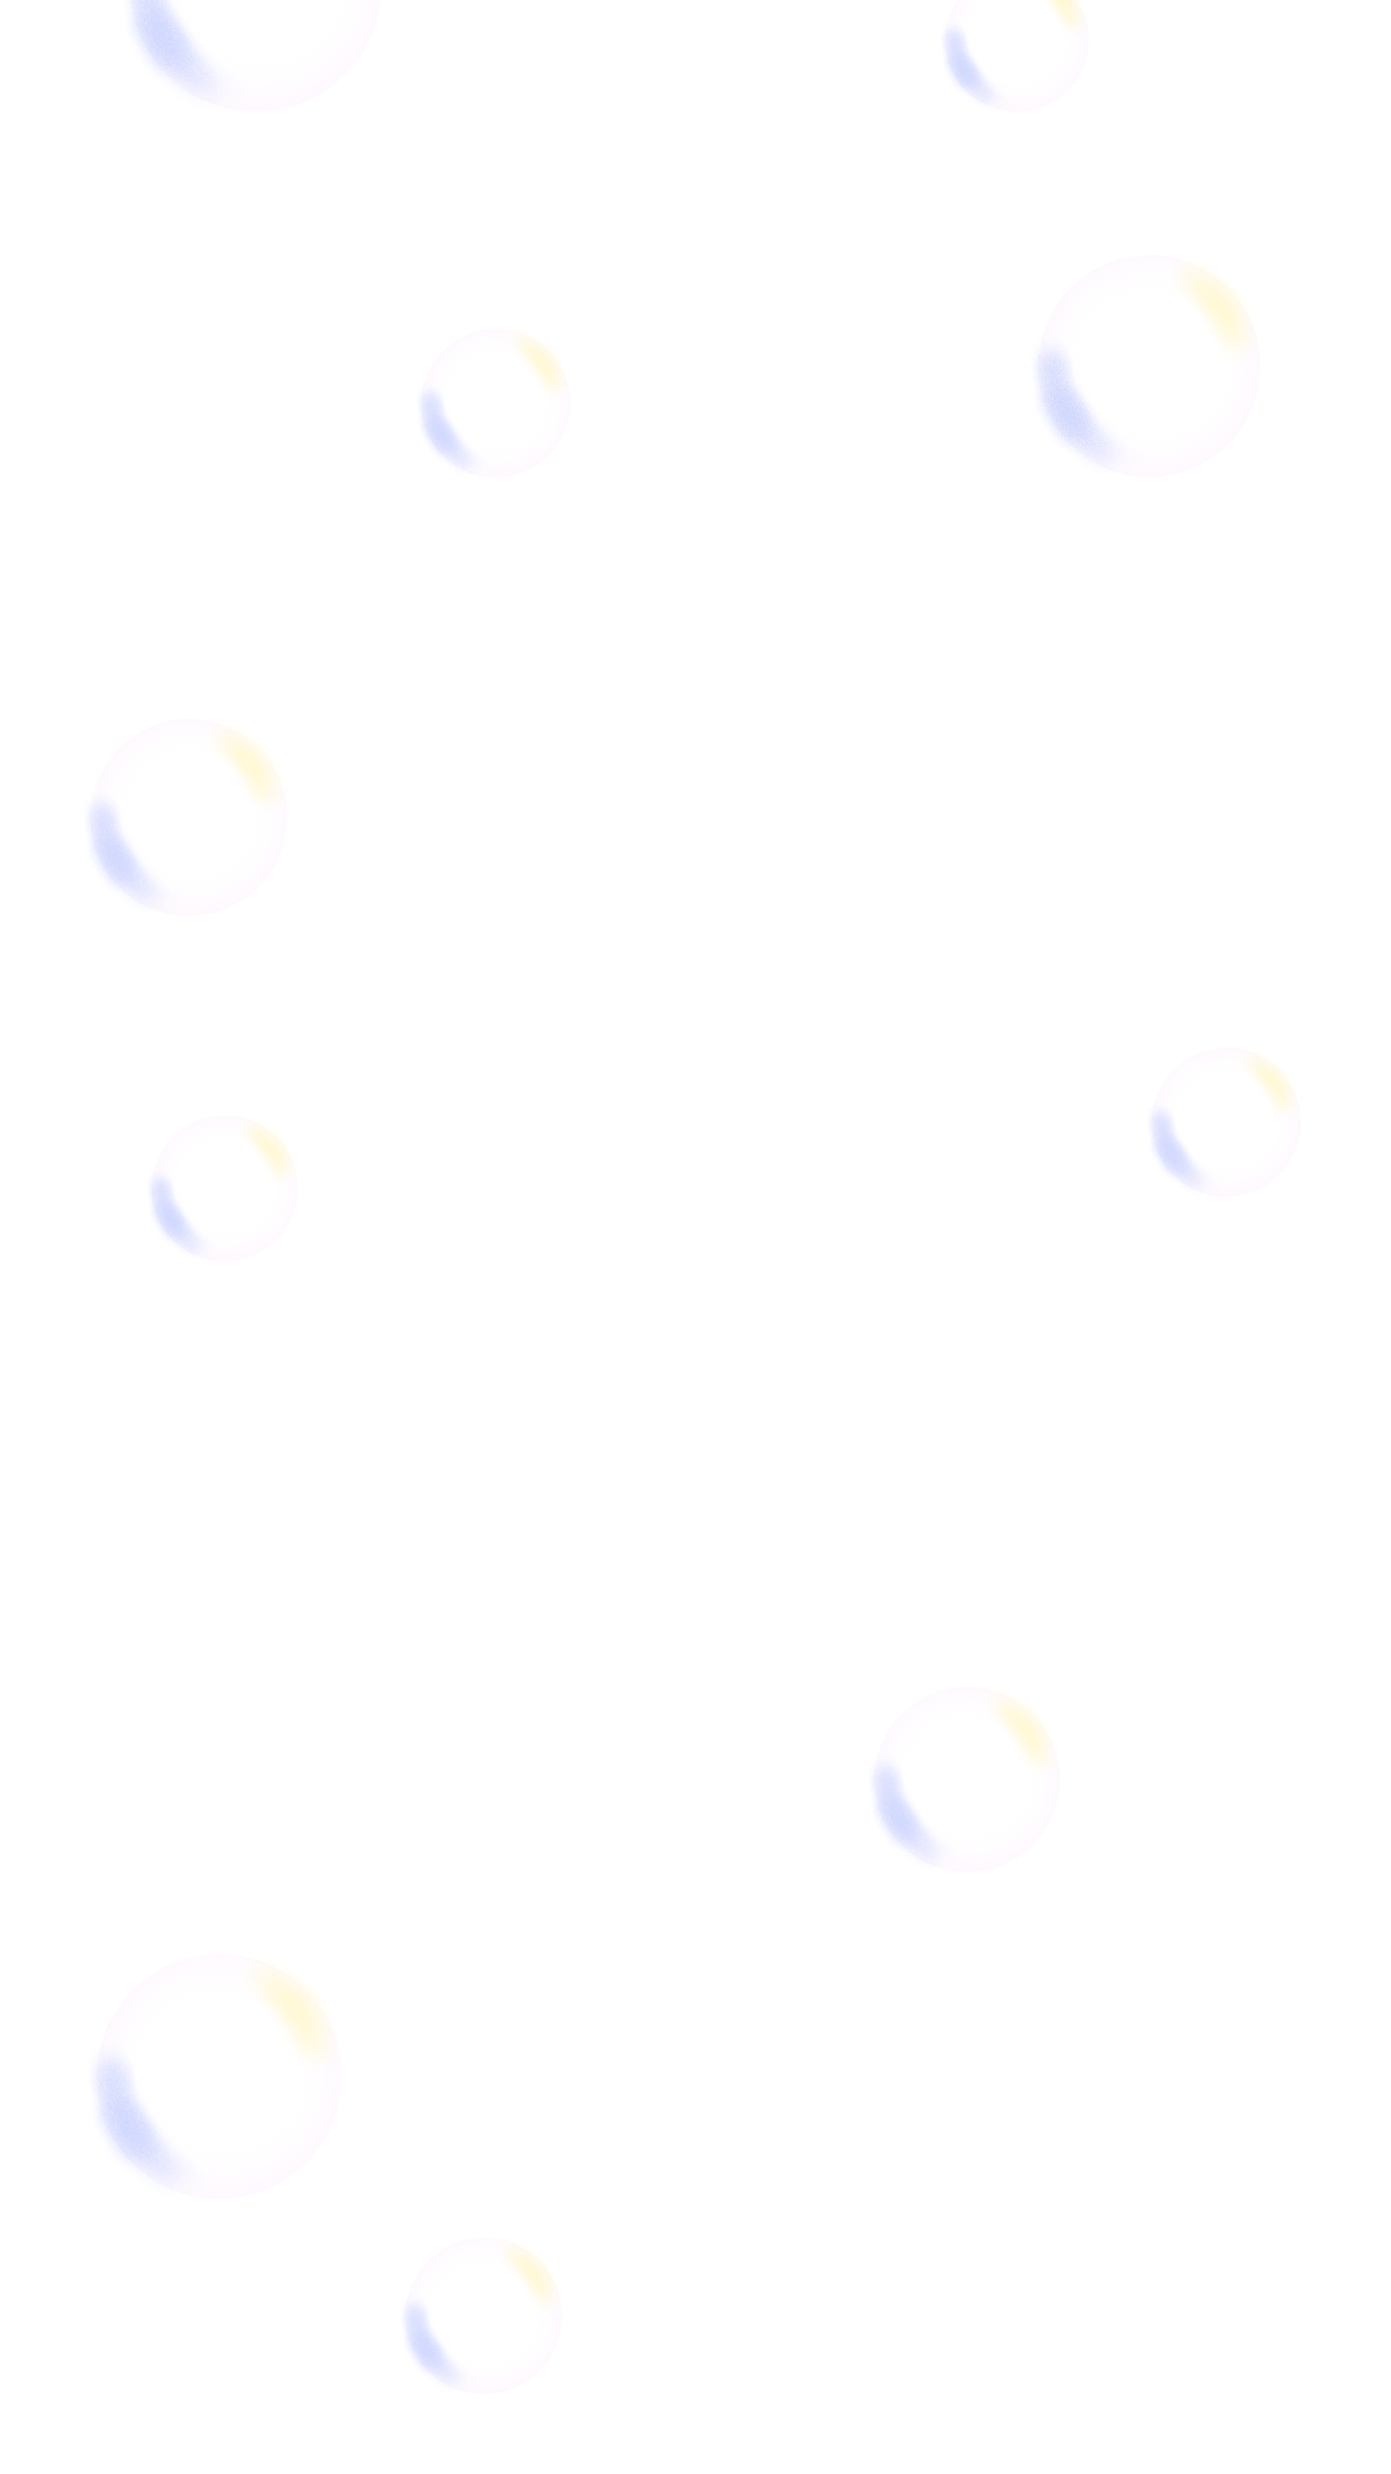
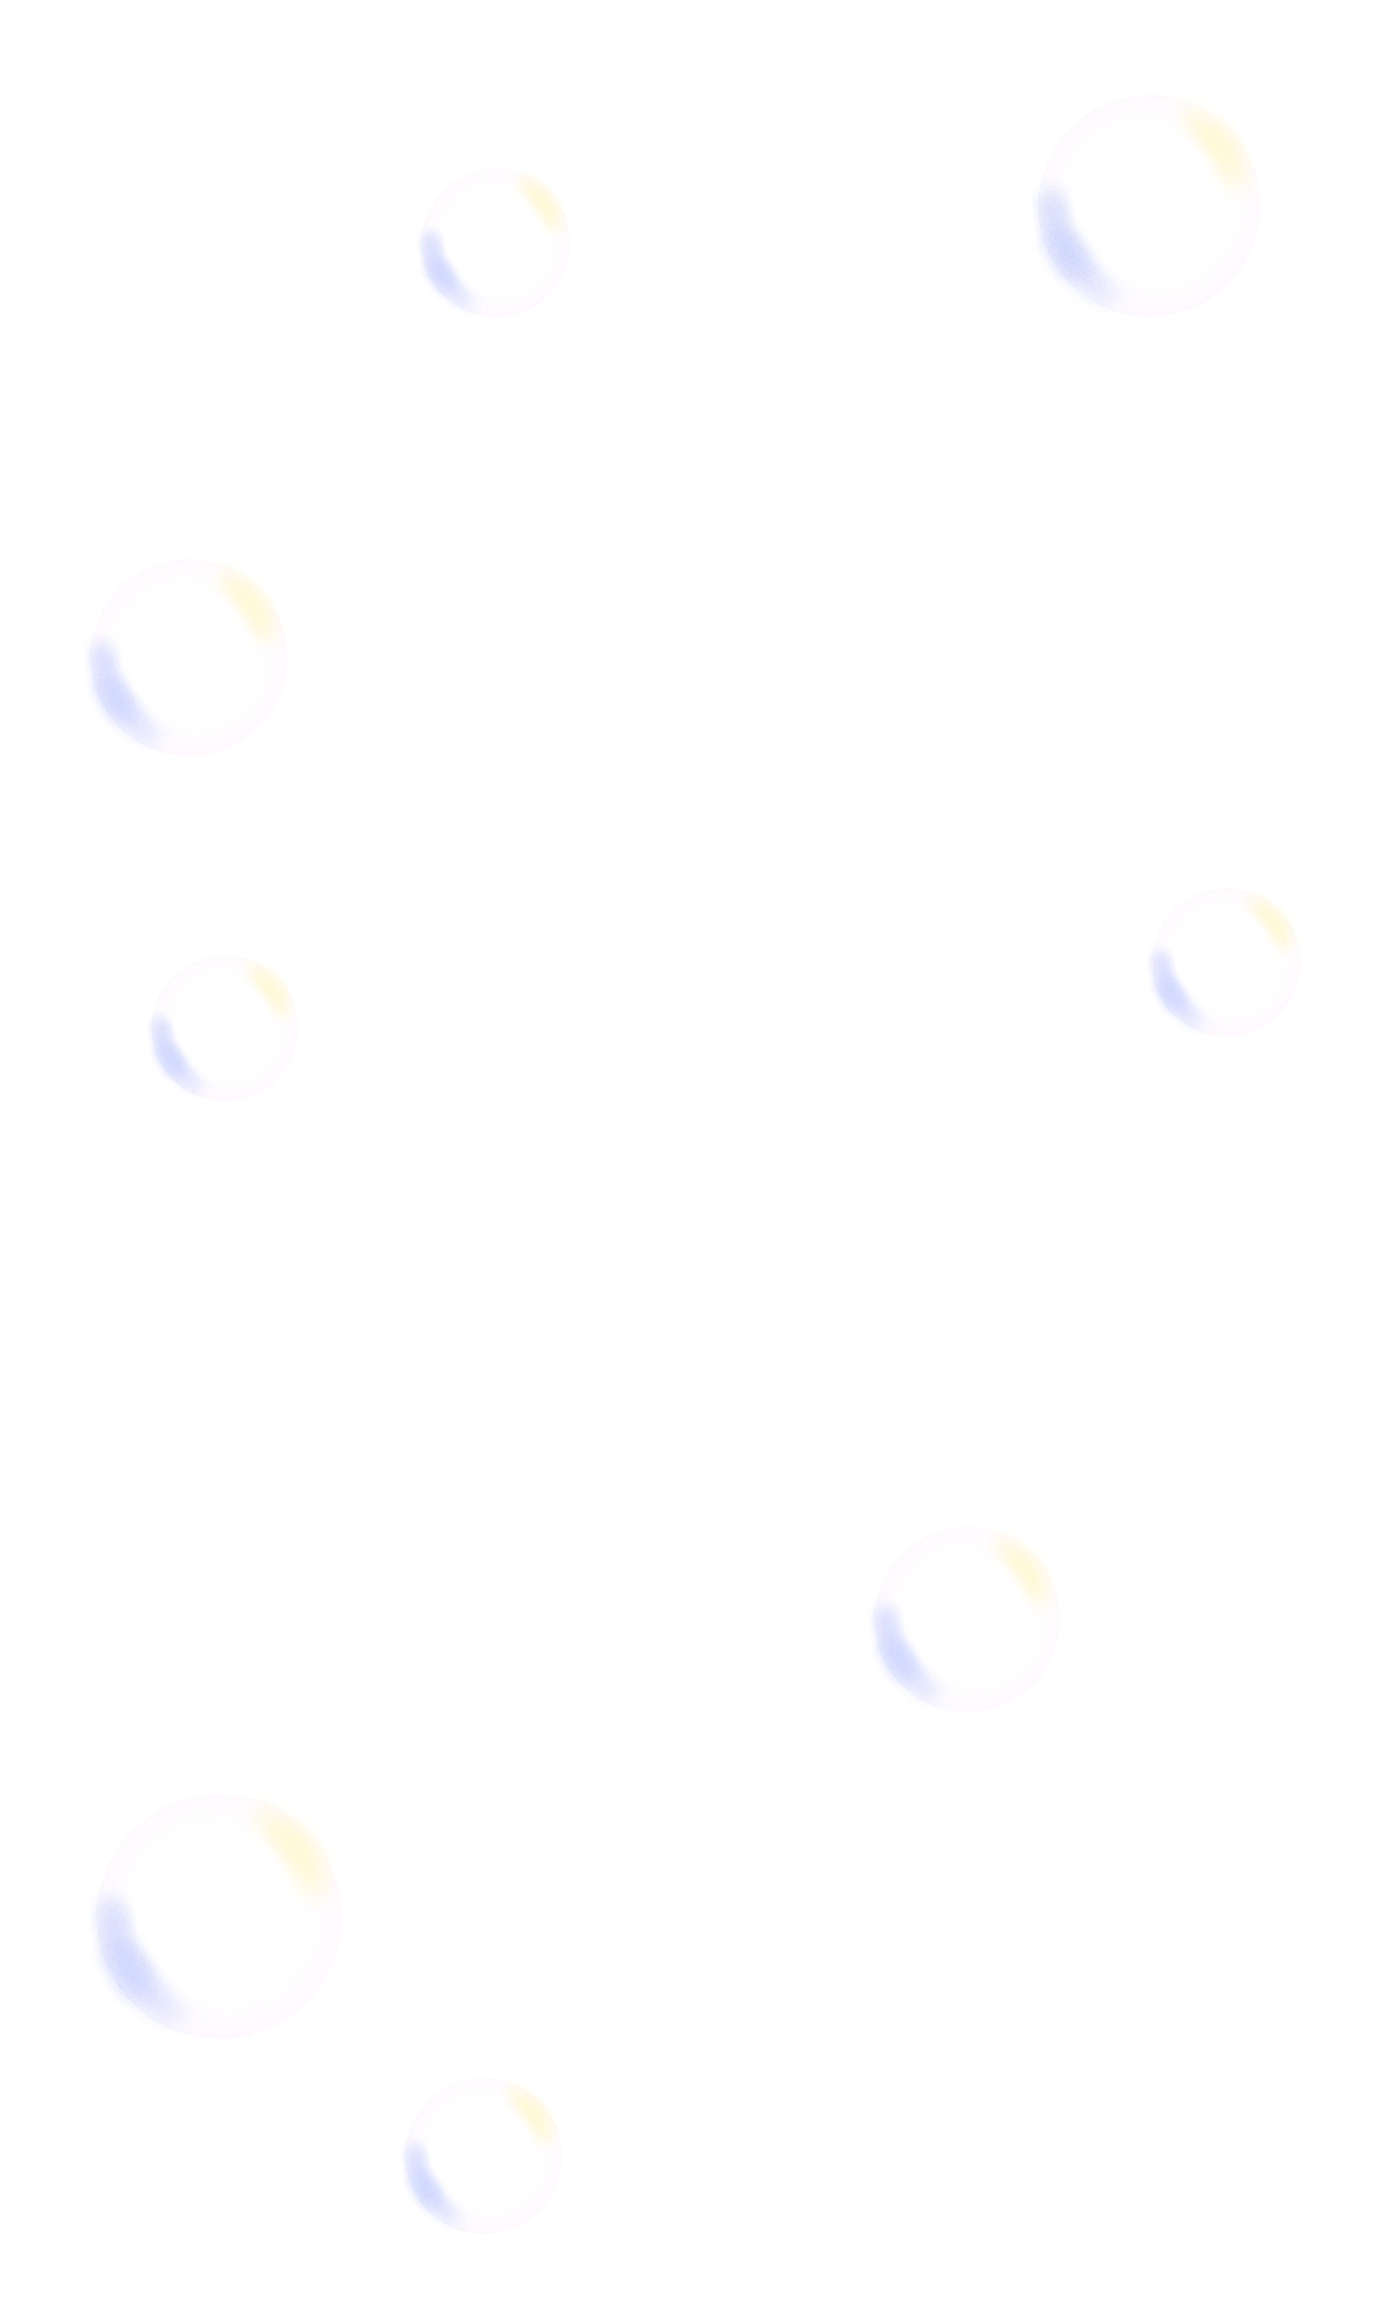
fix : character + word

diff --git a/data/burnout.ts b/data/burnout.ts
@@ -188,7 +188,7 @@ export const burnoutPages: BurnoutPage[] = [
     {
         id: 'burnout-10',
         navigation: 'tap-anywhere',
-        text: 'ไม่มีวาฬตัวไหนหันมามองคุณ\nมองจริง ๆ แล้ว ทุกตัวก็กำลังว่ายของตัวเองอยู่\nแถมวาฬบางตัวยังว่ายช้ากว่าคุณอีก',
+        text: 'ไม่มีวาฬตัวไหนหันมามองคุณ จริงๆแล้ว\nวาฬทุกตัวก็แค่กำลังว่ายไปในเส้นทางของตัวเอง\nบางช่วงก็ว่ายเร็ว บางช่วงก็ว่ายช้า\nจนตามเธอไม่ทันด้วยซ้ำ',
         background: ManyWhaleBackground,
 
         sound: '/audio/score for interactive project.mp3',
@@ -196,7 +196,7 @@ export const burnoutPages: BurnoutPage[] = [
     {
         id: 'burnout-10-reflection',
         navigation: 'tap-anywhere',
-        text: 'วาฬตัวนั้นเริ่มไม่แน่ใจว่าที่ผ่านมา\nเราว่ายตามกระแสน้ำ หรือว่ายตามอะไรกันแน่',
+        text: 'วาฬเริ่มไม่แน่ใจว่าที่ผ่านมา\nเราว่ายตามกระแสน้ำ หรือว่ายตามอะไรกันแน่',
         background: ManyWhaleBackground,
 
         sound: '/audio/score for interactive project.mp3',
@@ -204,7 +204,7 @@ export const burnoutPages: BurnoutPage[] = [
     {
         id: 'burnout-11',
         navigation: 'tap-anywhere',
-        text: 'วาฬตัวนั้นชะลอการเคลื่อนไหวลงเล็กน้อย\nรอบตัวเงียบกว่าที่คิด',
+        text: 'วาฬชะลอการเคลื่อนไหวลงเล็กน้อย\nรอบตัวเงียบกว่าที่คิด',
         background: ManyWhaleBackground,
 
         sound: '/audio/score for interactive project.mp3',
@@ -212,7 +212,7 @@ export const burnoutPages: BurnoutPage[] = [
     {
         id: 'burnout-11.5',
         navigation: 'tap-anywhere',
-        text: 'ตอนแรกวาฬตัวนี้รู้สึกแปลกเหมือนกำลังทำอะไรผิด\nกระแสน้ำยังคงพามันไปช้า ๆ แต่ครั้งแรกในรอบนาน\nวาฬตัวนี้กลับรู้สึกเหมือนได้หายใจ',
+        text: 'ตอนแรกวาฬรู้สึกแปลกที่ไม่ได้ออกแรงว่ายจนสุดตัว\nเหมือนที่ผ่านมากระแสน้ำยังคงพาวาฬไปข้างหน้าช้าๆ\nถึงจะรู้สึกผิดแต่วาฬกลับรู้สึกเหมือนได้พักหายใจ',
         background: ManyWhaleBackground,
 
         sound: '/audio/score for interactive project.mp3',

diff --git a/data/quiz.ts b/data/quiz.ts
@@ -91,7 +91,7 @@ export const animals: Record<AnimalKey, AnimalResult> = {
     iconColor: '#4bb3c9',
     background: '/background/quiz/character/dolphin/background.webp',
     animal: '/background/quiz/character/dolphin/animal.webp',
-    downloadImage: '/background/quiz/character/dolphin/dolphin.PNG',
+    downloadImage: '/background/quiz/character/dolphin/dolphin.jpg',
     animationType: 'zoom',
     link: "https://www.instagram.com/stories/goose.3533321/3972855821932823957?utm_source=ig_story_item_share&igsi=aXJidTU2eW9tNjRr",
   },
@@ -113,8 +113,7 @@ export const animals: Record<AnimalKey, AnimalResult> = {
     iconColor: '#7a9a7e',
     background: '/background/quiz/character/seal/background.webp',
     animal: '/background/quiz/character/seal/animal.webp',
-    downloadImage: '/background/quiz/character/seal/seal.PNG',
-    decoration: '/background/quiz/character/seal/decoration.webp',
+    downloadImage: '/background/quiz/character/seal/seal.jpg',
     animationType: 'float',
     link: "https://www.instagram.com/stories/goose.3533321/3972854483486579899?utm_source=ig_story_item_share&igsi=bHI4ejVwanY4bmVp"
   },
@@ -136,7 +135,7 @@ export const animals: Record<AnimalKey, AnimalResult> = {
     iconColor: '#b06a8f',
     background: '/background/quiz/character/octopus/background.webp',
     animal: '/background/quiz/character/octopus/animal.webp',
-    downloadImage: '/background/quiz/character/octopus/octopus.PNG',
+    downloadImage: '/background/quiz/character/octopus/octopus.jpg',
     decoration: '/background/quiz/character/octopus/decoration.webp',
     animationType: 'float',
     link: "https://www.instagram.com/stories/goose.3533321/3972855360408509006?utm_source=ig_story_item_share&igsi=cnVrd3p1cDY0aHYy",
@@ -159,7 +158,7 @@ export const animals: Record<AnimalKey, AnimalResult> = {
     iconColor: '#c9a24b',
     background: '/background/quiz/character/pufferfish/background.webp',
     animal: '/background/quiz/character/pufferfish/animal.webp',
-    downloadImage: '/background/quiz/character/pufferfish/pufferfish.PNG',
+    downloadImage: '/background/quiz/character/pufferfish/pufferfish.jpg',
     animationType: 'float',
     link: "https://www.instagram.com/stories/goose.3533321/3972855360408509006?utm_source=ig_story_item_share&igsi=cnVrd3p1cDY0aHYy",
   },
@@ -180,7 +179,7 @@ export const animals: Record<AnimalKey, AnimalResult> = {
     iconColor: '#5b8f74',
     background: '/background/quiz/character/turtle/background.webp',
     animal: '/background/quiz/character/turtle/animal.webp',
-    downloadImage: '/background/quiz/character/turtle/turtle.PNG',
+    downloadImage: '/background/quiz/character/turtle/turtle.jpg',
     decoration: '/background/quiz/character/turtle/decoration.webp',
     animationType: 'glide',
     link: "https://www.instagram.com/stories/goose.3533321/3972839636432484625?utm_source=ig_story_item_share&igsi=MWVydzllejVxZ3N5aQ==",

diff --git a/app/self-worth/page.tsx b/app/self-worth/page.tsx
@@ -57,6 +57,13 @@ function SelfWorthPageInner() {
 
     const total = selfWorthPages.length
     const page = selfWorthPages[index]
+    const reasonPage = selfWorthPages.find((candidate) => candidate.id === 'sw-reason')
+    const selectedReasonBackground = reasonPage && 'options' in reasonPage
+        ? reasonPage.options.find((option) => option.letter === answers['sw-reason'])?.background
+        : undefined
+    const pageBackground = page.id === 'sw-9' && selectedReasonBackground
+        ? [selectedReasonBackground]
+        : page.background
     const hasDecoration = Boolean(page.decorationFrames || page.decorationBubble)
     usePageAudio(page.sound)
     const text = page.text ? resolveSelfWorthText(page.text, answers) : ''
@@ -136,7 +143,7 @@ function SelfWorthPageInner() {
         return (
             <MobileFrame>
                 <div className="animate-fade-in relative flex min-h-dvh flex-1 flex-col">
-                    <BackgroundSlideshow images={page.background} intervalMs={1200} />
+                    <BackgroundSlideshow images={pageBackground} intervalMs={1200} />
                     {hasDecoration && <DecorationBubble type={page.decorationBubble} />}
                     <div key={page.id} className="relative z-10 flex min-h-dvh flex-1 flex-col p-6">
                         {backButton}
@@ -153,7 +160,7 @@ function SelfWorthPageInner() {
                                         <button
                                             key={option.letter}
                                             onClick={() => handleSelectLetter(option.letter)}
-                                            className="relative min-h-[200px] overflow-hidden rounded-lg transition-all duration-300 hover:scale-105 active:scale-95"
+                                            className="relative min-h-[400px] overflow-hidden rounded-lg transition-all duration-300 hover:scale-105 active:scale-95"
                                         >
                                             {option.background ? (
                                                 <>
@@ -211,7 +218,7 @@ function SelfWorthPageInner() {
                 onClick={() => advance()}
                 className="animate-fade-in relative flex min-h-dvh flex-1 cursor-pointer flex-col"
             >
-                <BackgroundSlideshow images={page.background} intervalMs={1200} />
+                <BackgroundSlideshow images={pageBackground} intervalMs={1200} />
                 {hasDecoration && <DecorationBubble type={page.decorationBubble} />}
                 <div key={page.id} className="relative z-10 flex min-h-dvh flex-1 flex-col p-6">
                     {backButton}

diff --git a/app/outro/page.tsx b/app/outro/page.tsx
@@ -87,11 +87,6 @@ export default function OutroPage() {
 
           <div className="relative z-10 flex flex-col items-center justify-center gap-6 p-6 pt-14 text-center text-white">
             {/* Wobbly sticker-style header chip */}
-            <p
-              className="-rotate-2 rounded-full border-[3px] border-black bg-white px-4 py-1.5 text-sm font-bold uppercase tracking-widest text-black shadow-[4px_4px_0px_0px_rgba(0,0,0,1)]"
-            >
-              เมื่อเปิดออกเป็นสิ่งที่ใช่หรือไม่
-            </p>
 
             {/* Backdrop + animal, thick outline like a coloring-book panel */}
             <div className="relative flex h-72 w-72 items-center justify-center" aria-hidden>
@@ -154,20 +149,25 @@ export default function OutroPage() {
           </div>
 
           {/* Quote card, hand-drawn dashed border */}
-          <div className="relative z-10 mx-auto mt-8 w-full max-w-sm px-6">
-            <div className="relative rounded-3xl border-[3px] border-dashed border-white bg-white/10 p-5 backdrop-blur-sm">
+          <div className="relative z-10 mx-auto mt-3 w-full max-w-sm px-2 ">
+            <div className="relative rounded-3xl border-[3px] border-dashed border-white bg-white/10 p-2 backdrop-blur-sm">
               {/* <span
                 className="absolute -top-5 left-4 rounded-full border-[3px] border-black px-2 text-3xl font-black leading-none text-black"
                 style={{ backgroundColor: animal.iconColor }}
               >
                 &ldquo;
               </span> */}
-              <p className="text-balance pt-2 text-base italic leading-relaxed text-white">
+              <p className="text-center text-base italic leading-relaxed text-white">
                 {animal.quote}
               </p>
             </div>
           </div>
 
+            {/* <div className="relative z-10 mt-4 w-full mx-auto max-w-md ">
+            <div className="rounded-3xl border-[3px] border-black bg-white p-5 text-black shadow-[5px_5px_0px_0px_rgba(0,0,0,1)]">
+              <p className="text-center text-base leading-relaxed">{animal.description}</p>
+            </div>
+          </div>         */}
           {/* Description card */}
           <div className="relative z-10 mx-auto mt-4 w-full max-w-sm px-6">
             <div className="rounded-3xl border-[3px] border-black bg-white p-5 text-black shadow-[5px_5px_0px_0px_rgba(0,0,0,1)]">

diff --git a/data/outro.ts b/data/outro.ts
@@ -44,14 +44,14 @@ export const outroPages: OutroTapPage[] = [
   {
     id: 'outro-4',
     navigation: 'tap-anywhere',
-    text: '"ถึงแม้การเดินทางของเรา ณ ตอนนี้จะสิ้นสุด\nแต่ชีวิตของเธอยังต้องไปต่อ"',
+    text: '"ถึงแม้การเดินทางของเรา \nณ ตอนนี้จะสิ้นสุด\nแต่ชีวิตของเธอยังต้องไปต่อ"',
     background: shoreBackground1,
     sound: '/audio/score for interactive project.mp3',
   },
   {
     id: 'outro-5',
     navigation: 'tap-anywhere',
-    text: '"เมื่อใดที่เธอเจอปัญหา ท้อแท้\nรู้สึกหมดหวัง หรือโดดเดี่ยว\nขอให้นึกไว้เสมอว่าในโลกนี้ก็ยังมีตัวเธออยู่"',
+    text: '"เมื่อใดที่เธอเจอปัญหา ท้อแท้\nรู้สึกหมดหวัง หรือโดดเดี่ยว\nขอให้นึกไว้เสมอว่า\nในโลกนี้ก็ยังมีตัวเธออยู่"',
     background: shoreBackground1,
     sound: '/audio/score for interactive project.mp3',
   },
@@ -86,7 +86,7 @@ export const outroPages: OutroTapPage[] = [
   {
     id: 'outro-9',
     navigation: 'tap-anywhere',
-    text: '"ฉันขอบคุณเธอมากจริง ๆ\nไว้เจอกันอีกในภายหน้านะ :)"',
+    text: '"ฉันขอบคุณเธอมากจริง ๆ\nไว้เจอกันใหม่นะ :)"',
     background: shoreBackground1,
     sound: '/audio/score for interactive project.mp3',
   },

diff --git a/app/burnout/page.tsx b/app/burnout/page.tsx
@@ -155,7 +155,7 @@ function BurnoutPageInner() {
                 <div key={page.id} className="relative flex min-h-dvh flex-1 flex-col">
                     <BackgroundSlideshow images={page.background} intervalMs={1200} />
                     {page.decorationFrames && (
-                        <DecorationBackground images={page.decorationFrames} intervalMs={1200} />
+                        <DecorationBackground images={page.decorationFrames} intervalMs={1500} />
                     )}
                     {decorationBubble}
                     <div className="relative z-10 flex min-h-dvh flex-1 flex-col p-6">
